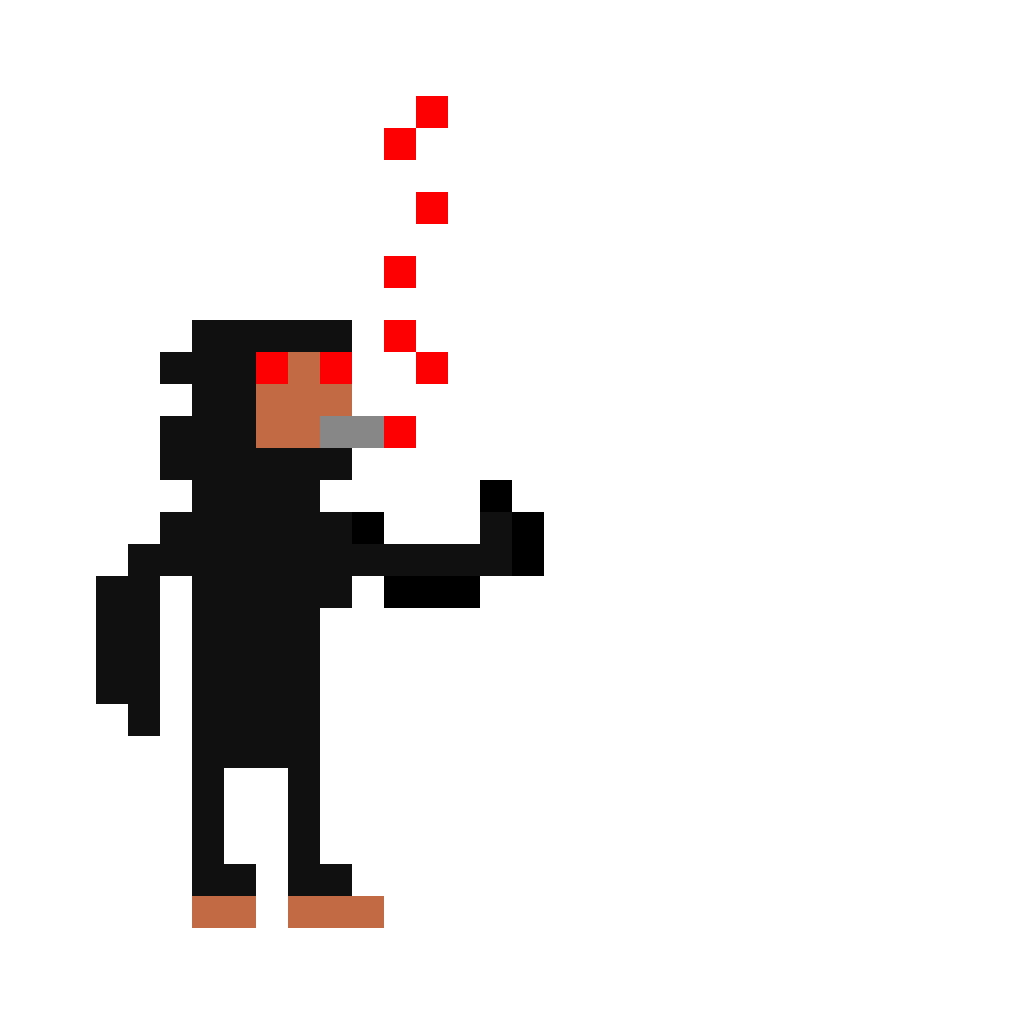
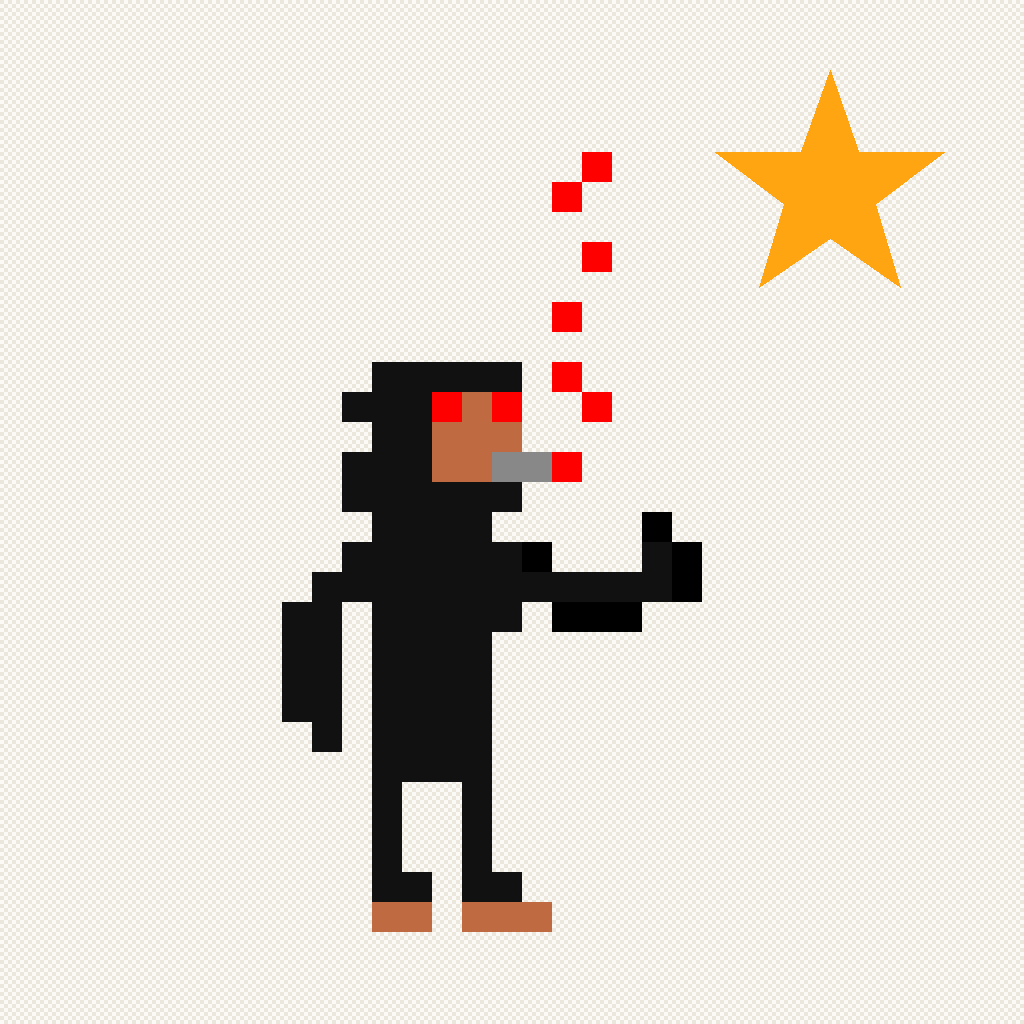
The live room was a corpse: every static path 404'd under the site root
squatch.html lived at /monomyth-inkling/ but asked for /squatch-room.js,
/sky.js, /fonts.css, /squatch-icon.png from the domain root. On the
King's glass the room booted dead: no chapters, no plot, no sprite, a
spine that would not drag or light, a lamp that changed nothing, menu
words that did nothing. (Neverland's desk served the files at root, so
the maker's own glass lied.) All static paths are relative now; the
desk APIs stay root-anchored, and only answer when the desk key rings.

The icon is new, not re-rendered: Scriptorium's dithered paper, Squatch
and his ember, and the gold star — squatch-icon.png/-192/-512, the
Desktop PNG, and the app's squatch.icns, with ?v=4 on touch icon and
manifest.

29 kept, 0 broken.

diff --git a/squatch.html b/squatch.html
@@ -8,10 +8,10 @@
 <meta name="apple-mobile-web-app-title" content="Squatch">
 <meta name="theme-color" content="#1a1a1a">
 <title>Squatch</title>
-<link rel="stylesheet" href="/fonts.css">
-<link rel="apple-touch-icon" href="/squatch-icon.png?v=3">
-<link rel="icon" type="image/png" href="/squatch-icon.png?v=3">
-<link rel="manifest" href="/squatch.webmanifest?v=3">
+<link rel="stylesheet" href="fonts.css">
+<link rel="apple-touch-icon" href="squatch-icon.png?v=4">
+<link rel="icon" type="image/png" href="squatch-icon.png?v=4">
+<link rel="manifest" href="squatch.webmanifest?v=4">
 <script>if (location.pathname.indexOf('/s/') === 0) document.documentElement.classList.add('guest');</script>
 <!--
   SQUATCH — the writing inkling (the King, 2026-10-03).
@@ -340,8 +340,8 @@
   <p id="setLink"></p>
   <div id="setNotes"></div>
 </div>
-<script src="/squatch-room.js"></script>
-<script src="/sky.js"></script>
+<script src="squatch-room.js"></script>
+<script src="sky.js"></script>
 <script>
 (function () {
   'use strict';
@@ -1302,7 +1302,7 @@
   /* his body, cell for cell, from squatch.json. The red pixels above the ember climb and come round. Never redrawn. */
   function seatSquatch() {
     var cv = $('sprite'); if (!cv || guest) return;
-    fetch('/squatch/squatch.json').then(function (r) { return r.json(); }).then(function (O) {
+    fetch('squatch/squatch.json').then(function (r) { return r.json(); }).then(function (O) {
       var S = 5, w = O.w, h = O.h, rows = O.frames[0], ey = 10, cols = [9, 10];
       var isSpark = function (x, y) { return y < ey && cols.indexOf(x) >= 0 && O.pal[rows[y][x]] && String(O.pal[rows[y][x]]).toUpperCase() === '#FF0000'; };
       var sparks = [];
@@ -1528,7 +1528,7 @@
       if (typeof shares[token] === 'string') shares[token] = { project: shelf.projects[0].id, mode: shares[token] };
     });
     $('anew').addEventListener('click', newProject);
-    fetch('/squatch/session.txt').then(function (r) { return r.ok ? r.text() : ''; }).then(function (t) {
+    fetch('squatch/session.txt').then(function (r) { return r.ok ? r.text() : ''; }).then(function (t) {
       if (!t || !t.trim() || !shelf) return;
       var built = R.construct(t), kept = [], i, p, notes, k, kingSaid;
       for (i = 0; i < shelf.projects.length; i++) {
